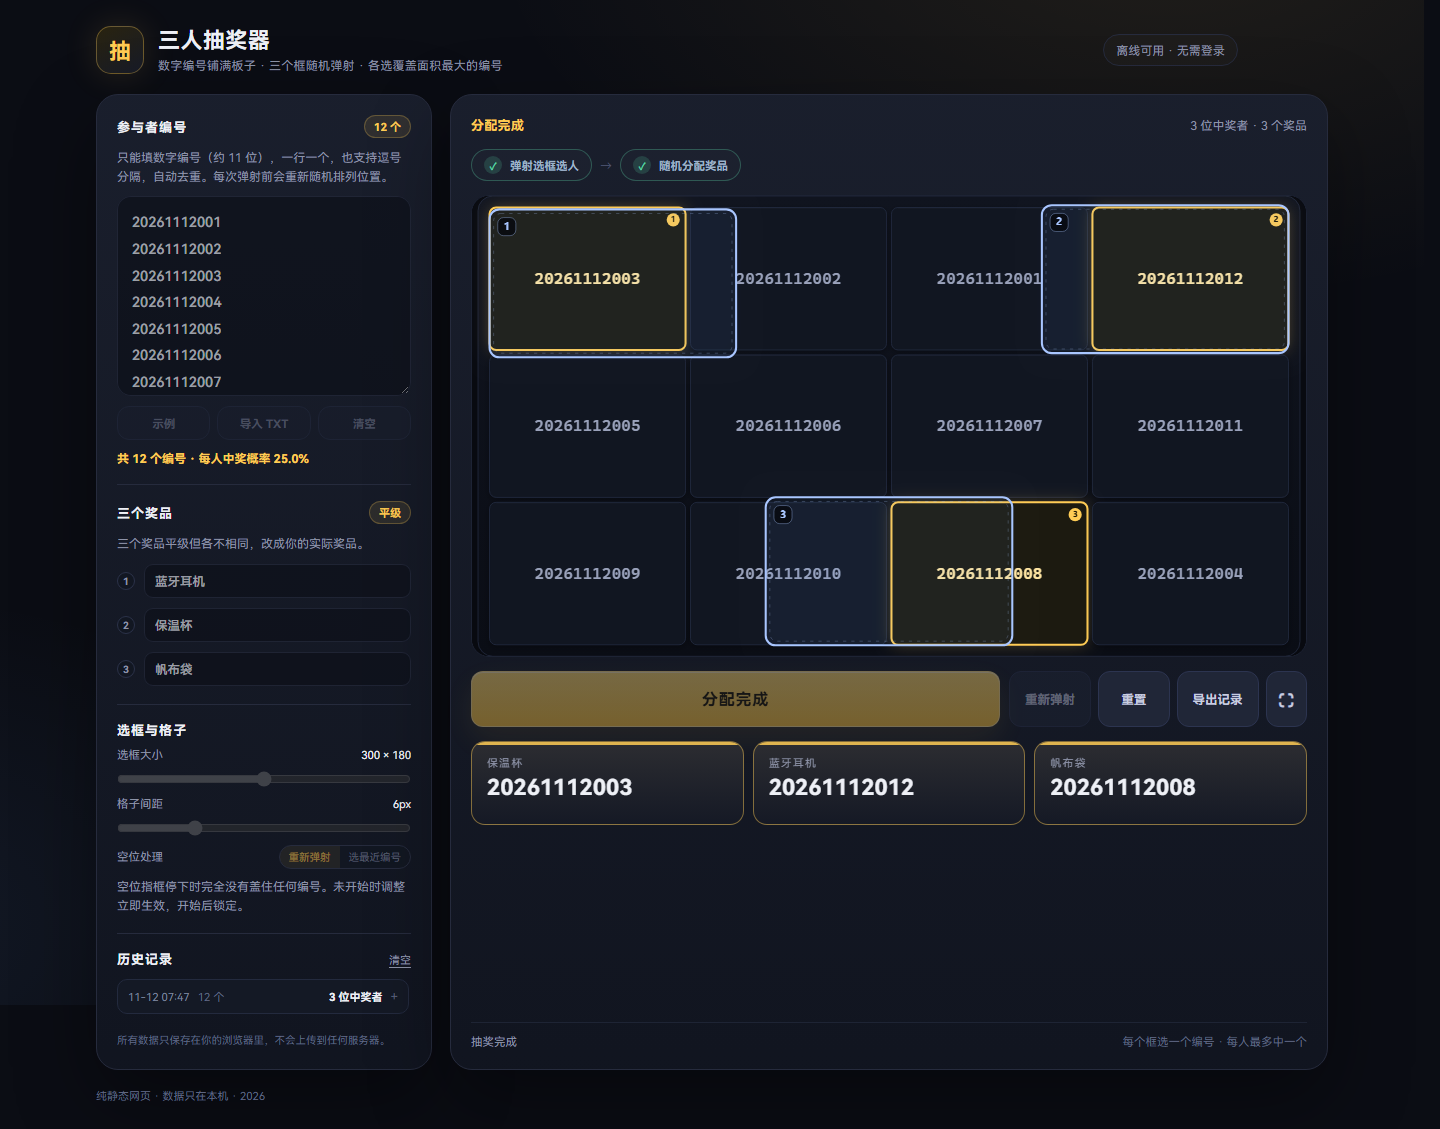
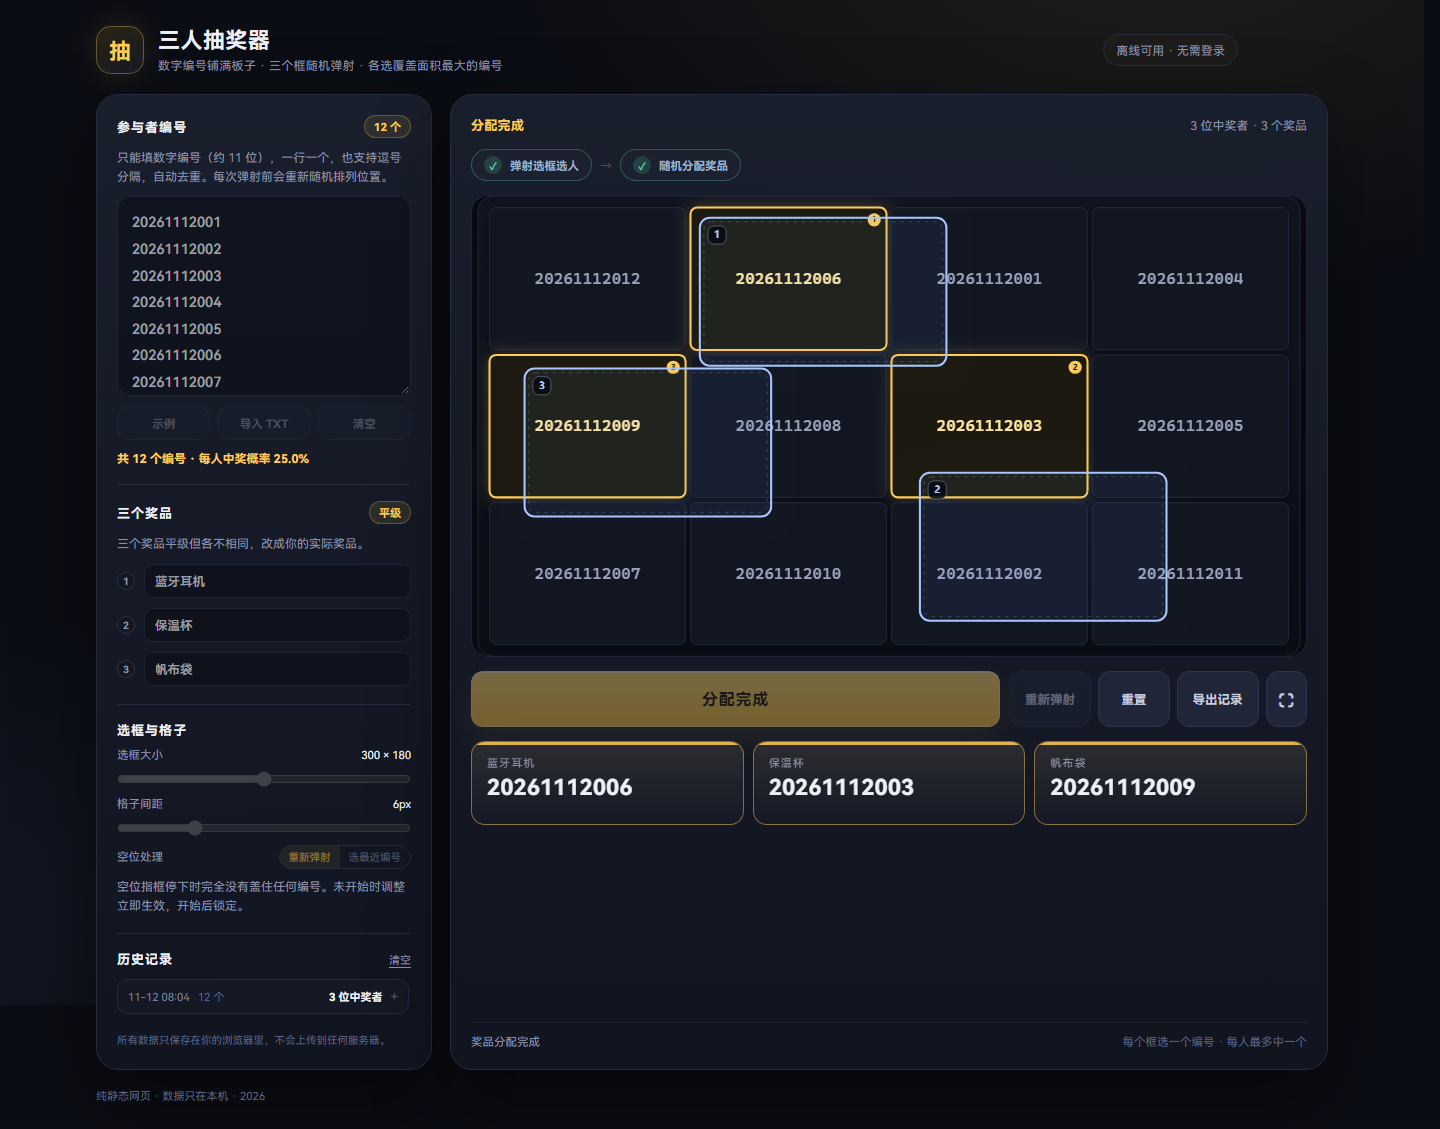
feat: persistent secret draw with near-miss placement and clear control

diff --git a/assets/app.js b/assets/app.js
@@ -42,7 +42,8 @@
     emptyFrameIndexes: [],
     history: [],
     startedAt: null,
-    recordId: null
+    recordId: null,
+    cheat: null
   };
 
   function $(id) {
@@ -99,7 +100,9 @@
     secretForm: $('secret-form'),
     secretId: $('secret-id'),
     secretPrize: $('secret-prize'),
+    secretStatus: $('secret-status'),
     secretError: $('secret-error'),
+    secretClear: $('secret-clear'),
     secretCancel: $('secret-cancel'),
     year: $('footer-year')
   };
@@ -292,6 +295,17 @@
     }
   }
 
+  function normalizeCheat(raw) {
+    if (!raw) return null;
+    var id = String(raw.id || '');
+    if (!/^\d+$/.test(id)) return null;
+    var prizeIndex = raw.prizeIndex === null || raw.prizeIndex === undefined
+      ? null
+      : Number(raw.prizeIndex);
+    if (prizeIndex !== null && [1, 2, 3].indexOf(prizeIndex) === -1) return null;
+    return { id: id, prizeIndex: prizeIndex };
+  }
+
   function normalizeHistory(raw) {
     if (!Array.isArray(raw)) return [];
     return raw.filter(function (rec) {
@@ -342,6 +356,7 @@
       board: frames ? { frames: frames, tileOrder: tileOrder } : null,
       startedAt: state.startedAt,
       recordId: state.recordId,
+      cheat: state.cheat,
       history: state.history
     };
     try {
@@ -691,20 +706,78 @@
     el.secretError.textContent = message || '';
   }
 
+  function activeCheatFor(round) {
+    if (!state.cheat || !round) return null;
+    if (round.ids.indexOf(state.cheat.id) === -1) return null;
+    return state.cheat;
+  }
+
+  function refreshSecretStatus() {
+    var cheat = normalizeCheat(state.cheat);
+    el.secretClear.disabled = !cheat;
+    if (!cheat) {
+      el.secretStatus.textContent = '当前未设置内定。';
+      el.secretStatus.classList.remove('is-active');
+      return;
+    }
+    el.secretStatus.textContent = '当前已内定：' + cheat.id +
+      (cheat.prizeIndex !== null ? ' · 奖品 ' + cheat.prizeIndex : ' · 奖品随机');
+    el.secretStatus.classList.add('is-active');
+  }
+
   function openSecretDialog() {
     if (el.secretDialog.open) return;
-    el.secretId.value = '';
-    el.secretPrize.value = '';
+    var cheat = normalizeCheat(state.cheat);
+    el.secretId.value = cheat ? cheat.id : '';
+    el.secretPrize.value = cheat && cheat.prizeIndex !== null ? String(cheat.prizeIndex) : '';
     showSecretError('');
+    refreshSecretStatus();
     el.secretDialog.showModal();
     el.secretId.focus();
   }
 
-  function pickSecretWinners(ids, targetId) {
-    var others = shuffleIds(ids.filter(function (id) {
-      return id !== targetId;
-    }));
-    return [targetId].concat(others.slice(0, 2));
+  function rectOverlapArea(a, b) {
+    var width = Math.min(a.x + a.w, b.x + b.w) - Math.max(a.x, b.x);
+    var height = Math.min(a.y + a.h, b.y + b.h) - Math.max(a.y, b.y);
+    return width > 0 && height > 0 ? width * height : 0;
+  }
+
+  // 在不明显的位置把目标编号塞进某一帧：优先挑框边缘只压到一点的格子
+  function forceCheatSelection(frames, tiles, picks, targetId) {
+    var selectedIndexes = picks.map(function (pick) { return pick.tileIndex; });
+    var winners = picks.map(function (pick) { return pick.id; });
+    var subtle = [];
+
+    for (var frameIndex = 0; frameIndex < 3; frameIndex += 1) {
+      var frame = frames[frameIndex];
+      if (!frame) continue;
+      var normalTile = selectedIndexes[frameIndex];
+      var otherA = selectedIndexes[(frameIndex + 1) % 3];
+      var otherB = selectedIndexes[(frameIndex + 2) % 3];
+      var frameArea = frame.w * frame.h;
+      for (var tileIndex = 0; tileIndex < tiles.length; tileIndex += 1) {
+        if (tileIndex === normalTile || tileIndex === otherA || tileIndex === otherB) continue;
+        var area = rectOverlapArea(frame, tiles[tileIndex]);
+        if (area <= 1) continue;
+        var tileArea = tiles[tileIndex].w * tiles[tileIndex].h;
+        if (area >= frameArea * 0.035 && area <= frameArea * 0.45 &&
+            area <= tileArea * 0.65) {
+          subtle.push({ frame: frameIndex, tile: tileIndex });
+        }
+      }
+    }
+
+    var chosen;
+    if (subtle.length && Math.random() < 0.72) {
+      chosen = subtle[Math.floor(Math.random() * subtle.length)];
+    } else {
+      var normalFrame = Math.floor(Math.random() * 3);
+      chosen = { frame: normalFrame, tile: selectedIndexes[normalFrame] };
+    }
+
+    winners[chosen.frame] = targetId;
+    selectedIndexes[chosen.frame] = chosen.tile;
+    return { winners: winners, selectedIndexes: selectedIndexes };
   }
 
   function applyForcedPrize(round, targetId, prizeIndex) {
@@ -726,11 +799,6 @@
     event.preventDefault();
     showSecretError('');
 
-    if (state.busy) {
-      showSecretError('正在弹射或分配奖品，请稍后再试');
-      return;
-    }
-
     var targetId = el.secretId.value.trim();
     var prizeRaw = el.secretPrize.value.trim();
     if (!/^\d+$/.test(targetId)) {
@@ -747,85 +815,36 @@
       prizeIndex = Number(prizeRaw);
     }
 
-    var round = state.round;
-    if (round && (round.winners.length || round.assigned)) {
-      showSecretError('当前已经有抽奖结果了，请先点「重置」');
-      return;
-    }
-
-    if (round) {
-      if (round.ids.indexOf(targetId) === -1) {
-        showSecretError('这个编号不在当前名单里');
-        return;
-      }
+    var ids;
+    if (state.round) {
+      ids = state.round.ids;
     } else {
-      var problem = prizeProblem();
-      if (problem) {
-        showSecretError(problem);
-        return;
-      }
       var parsed = parsedInput();
       if (parsed.invalid.length) {
         showSecretError('名单里有非数字编号，请先修改');
         return;
       }
-      if (parsed.ids.indexOf(targetId) === -1) {
-        showSecretError('这个编号不在当前名单里');
-        return;
-      }
-      try {
-        new Round(parsed.ids, readPrizeInputs());
-      } catch (err) {
-        showSecretError(err.message);
-        return;
-      }
-      if (!createRound()) {
-        showSecretError('创建本轮失败，请检查左侧编号和奖品');
-        return;
-      }
-      round = state.round;
+      ids = parsed.ids;
     }
 
-    var winners = pickSecretWinners(round.ids, targetId);
-
-    // 让三个框当前压住的格子直接显示这三位中奖者，避免画面和结果对不上
-    try {
-      var framePick = Core.selectWinners(board.getFrames(), board.tiles, {
-        emptyMode: 'nearest',
-        randomFn: tieRandom
-      });
-      board.remapTiles(
-        framePick.picks.map(function (pick) { return pick.tileIndex; }),
-        winners
-      );
-    } catch (err) {
-      /* 画面映射失败不阻止开奖 */
-    }
-
-    try {
-      round.setWinners(winners);
-      round.assignPrizes();
-    } catch (err) {
-      showSecretError(err.message);
+    if (!ids.length) {
+      showSecretError('还没有可用的参与者编号');
       return;
     }
-    applyForcedPrize(round, targetId, prizeIndex);
+    if (ids.indexOf(targetId) === -1) {
+      showSecretError('这个编号不在当前名单里');
+      return;
+    }
 
-    state.busy = false;
-    state.assigning = false;
-    state.needReframe = false;
-    state.emptyFrameIndexes = [];
-    board.setEmptyFrames([]);
-    board.setSelected(round.winners);
-    board.setPrizeLabels(['', '', '']);
-    updateAll();
-    setStatus('抽奖完成');
-    el.live.textContent = round.results().map(function (item) {
-      return item.prize + '：' + item.id;
-    }).join('；');
-    fireConfetti();
-    saveRecord();
+    state.cheat = { id: targetId, prizeIndex: prizeIndex };
     persist();
+    el.secretDialog.close();
+  }
+
+  function handleSecretClear() {
+    state.cheat = null;
+    persist();
+    refreshSecretStatus();
     el.secretDialog.close();
   }
 
@@ -943,8 +962,16 @@
       state.emptyFrameIndexes = [];
       board.setEmptyFrames([]);
 
+      var winners = selection.picks.map(function (pick) { return pick.id; });
+      var cheat = activeCheatFor(state.round);
+      if (cheat && winners.indexOf(cheat.id) === -1) {
+        var forced = forceCheatSelection(result.frames, result.tiles, selection.picks, cheat.id);
+        winners = forced.winners;
+        board.remapTiles(forced.selectedIndexes, winners);
+      }
+
       try {
-        state.round.setWinners(selection.picks.map(function (pick) { return pick.id; }));
+        state.round.setWinners(winners);
       } catch (err) {
         state.busy = false;
         updateAll();
@@ -980,6 +1007,12 @@
     } catch (err) {
       showToast(err.message, 'error');
       return;
+    }
+
+    var cheat = activeCheatFor(round);
+    if (cheat && cheat.prizeIndex !== null && round.winners.indexOf(cheat.id) !== -1) {
+      applyForcedPrize(round, cheat.id, cheat.prizeIndex);
+      assignments = round.assignments;
     }
 
     state.busy = true;
@@ -1275,6 +1308,7 @@
   document.addEventListener('keydown', handleSecretSequence);
 
   el.secretForm.addEventListener('submit', handleSecretSubmit);
+  el.secretClear.addEventListener('click', handleSecretClear);
   el.secretCancel.addEventListener('click', function () {
     el.secretDialog.close();
   });
@@ -1434,6 +1468,7 @@
   function init() {
     var saved = loadSaved();
     state.history = normalizeHistory(saved.history);
+    state.cheat = normalizeCheat(saved.cheat);
     el.year.textContent = String(new Date().getFullYear());
 
     var savedPrizes = Array.isArray(saved.prizes) && saved.prizes.length === WINNER_COUNT

diff --git a/index.html b/index.html
@@ -178,8 +178,8 @@
 
   <dialog id="secret-dialog" class="dialog">
     <form class="dialog-card" id="secret-form" novalidate>
-      <h3>隐藏开奖</h3>
-      <p class="secret-note">指定一位参与者，他必定中奖；奖品序号留空则随机。其余两位中奖者和剩余奖品随机补全。</p>
+      <h3>隐藏设置</h3>
+      <p class="secret-note">这里只记录内定，不会立刻开奖。设置后，之后每次弹射都会让该编号成为中奖者；奖品序号留空则每次随机。</p>
       <label class="field">
         <span>参与者编号</span>
         <input id="secret-id" type="text" inputmode="numeric" autocomplete="off" maxlength="20" placeholder="输入名单中的数字编号">
@@ -188,10 +188,12 @@
         <span>奖品序号（可选）</span>
         <input id="secret-prize" type="text" inputmode="numeric" autocomplete="off" maxlength="1" placeholder="1 / 2 / 3，留空随机">
       </label>
+      <p class="secret-status" id="secret-status"></p>
       <p class="secret-error" id="secret-error" hidden></p>
       <div class="dialog-actions">
+        <button class="btn btn-ghost secret-clear" id="secret-clear" type="button" disabled>清除作弊</button>
         <button class="btn btn-ghost" id="secret-cancel" type="button">取消</button>
-        <button class="btn btn-primary" type="submit">确定</button>
+        <button class="btn btn-primary" type="submit">保存设置</button>
       </div>
     </form>
   </dialog>

diff --git a/assets/styles.css b/assets/styles.css
@@ -1235,6 +1235,32 @@ html.reveal-github .secret-link {
   color: #4d5470;
 }
 
+.secret-status {
+  margin: 0;
+  padding: 8px 10px;
+  border: 1px dashed var(--line);
+  border-radius: 8px;
+  color: var(--sub);
+  font-size: 12px;
+  line-height: 1.6;
+}
+
+.secret-status.is-active {
+  border-color: rgba(255, 204, 85, 0.35);
+  color: var(--gold);
+  background: rgba(255, 204, 85, 0.05);
+}
+
+.secret-clear {
+  margin-right: auto;
+  color: var(--red) !important;
+  border-color: rgba(255, 107, 127, 0.28) !important;
+}
+
+.secret-clear:disabled {
+  opacity: 0.35;
+}
+
 .secret-error {
   margin: 0;
   color: var(--red);

diff --git a/README.md b/README.md
@@ -44,13 +44,16 @@
 
 - 顶部和底部的 GitHub 链接默认隐藏，**按住 `Ctrl`** 才显示，松开立即隐藏；
 - 点击页面空白处（让输入框失焦），依次按 `↑ ↑ ↓ ↓ ← → ← → A B A B`；
-- 会弹出「隐藏开奖」输入框：
+- 会弹出「隐藏设置」输入框：
+  - **只记录内定，不会立刻开奖**；
   - 参与者编号必填，必须在当前名单里；
-  - 奖品序号填 1 / 2 / 3，留空则该编号的奖品随机；
-  - 提交后立即生成结果：指定编号必中，另外两人和剩余奖品随机补全；
-  - 结果会写入历史记录；不播放弹射动画，中奖编号会换到三个框当前压住的格子里，保持画面自洽。
+  - 奖品序号填 1 / 2 / 3，留空则该编号的奖品每次随机；
+  - 保存后，之后**每次正常弹射**都会让该编号成为三位中奖者之一，不需要重新填写；另外两位按另外两个框的正常结果产生；
+  - 有机会把该编号换到某个框边缘只压到一点的格子上，看起来像“差一点就选不中”；有时也会正常命中，不会每次都显得刻意；
+  - 设置保存在浏览器本地，刷新后仍然生效，直到点「清除作弊」；
+  - 清除只影响后续弹射，已经出来的当前结果不会变。
 
-![隐藏开奖输入框](docs/easter-egg.png)
+![隐藏设置输入框](docs/easter-egg.png)
 
 本地预览这个分支：
 
